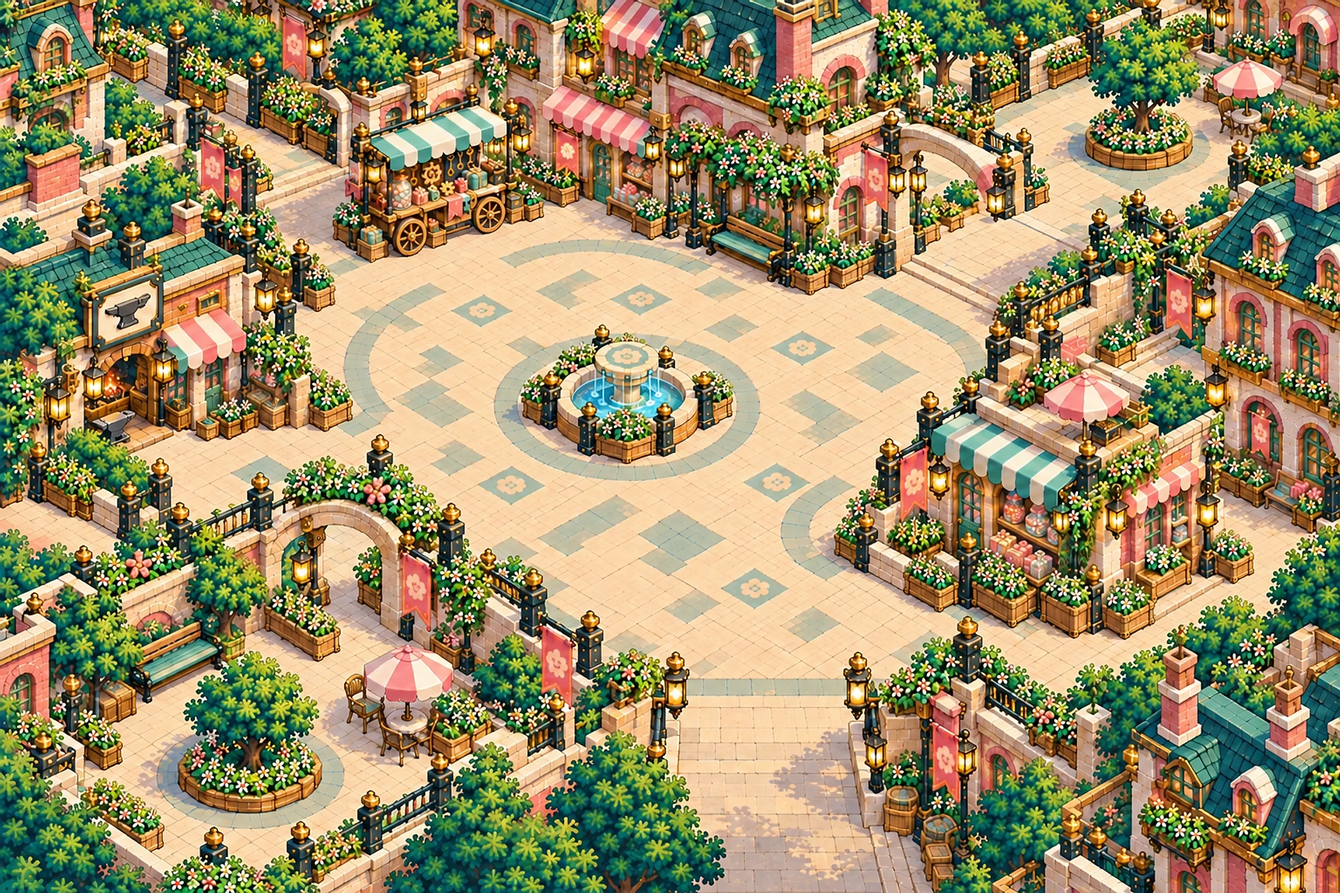
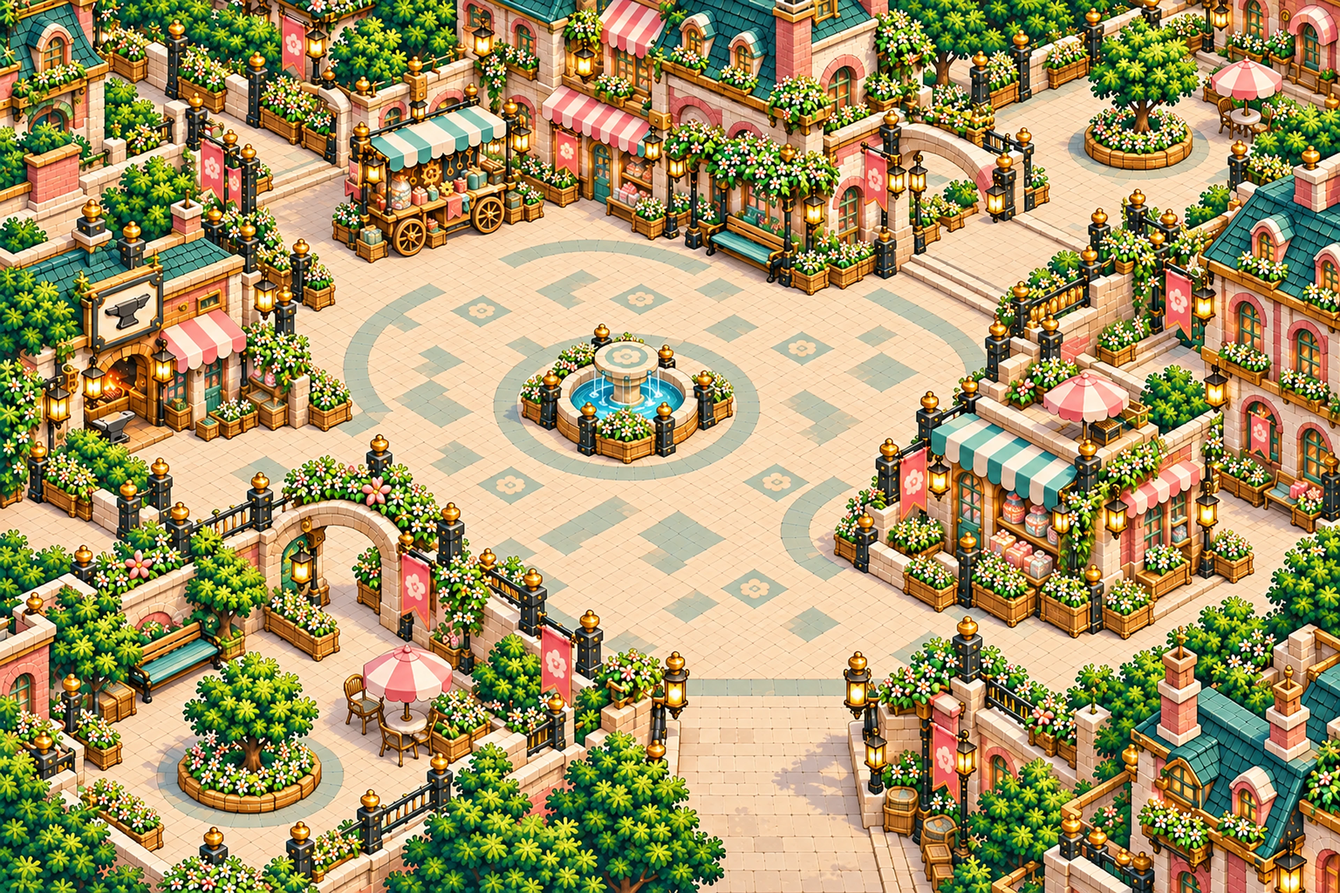
Cleaner F2 south blows, sharper village, fusion effects without flat rings, play time in settings
- F2 south 1st/2nd blows: the empty left fist drawn in and the helmet held steady
- Village background repainted at the new map quality; portals centred on exit roads
- Fusion slot greys out without charge; skill cooldown tuning renamed and shown as a cut
- Pictured skills drop the plain pulse ring; landing marks redrawn; music box notes smaller
- Residents whose north walk faced the camera turn their back; fight effects no longer linger in the village
- Total play time in settings (title, settings and hidden tab not counted); game data tables in README
- Mob damage 1.5x; prompts for world map boss and market markers

Claude-Session: https://claude.ai/code/session_013zTJ8zeUY4Et2JZtzqmSzm

diff --git a/src/main.js b/src/main.js
@@ -22,6 +22,8 @@ import { progressMark, syncPlan, readLink, writeLink } from './engine/sync.js';
 
 const $ = id => document.getElementById(id);
 const escapeHTML = text => String(text).replace(/[&<>"']/g, ch => ({ '&': '&amp;', '<': '&lt;', '>': '&gt;', '"': '&quot;', "'": '&#39;' }[ch]));
+/** Total play time as hours and minutes: "12시간 5분", "5분", or "1분 미만". */
+const formatPlayTime = seconds => { const minutes = Math.floor(seconds / 60), hours = Math.floor(minutes / 60); return hours ? `${hours}시간 ${minutes % 60}분` : minutes ? `${minutes}분` : '1분 미만'; };
 const formatTime = seconds => `${Math.floor(seconds / 60)}:${String(Math.floor(seconds % 60)).padStart(2, '0')}`;
 const defaultBindings = { up: 'KeyW', left: 'KeyA', down: 'KeyS', right: 'KeyD', dodge: 'Space', skill0: 'KeyQ', skill1: 'KeyE', skill2: 'KeyR', skill3: 'KeyF', interact: 'KeyG', codex: 'Tab', map: 'KeyM' };
 const bindingNames = { up: '위', left: '왼쪽', down: '아래', right: '오른쪽', dodge: '회피', skill0: '기술 1', skill1: '기술 2', skill2: '기술 3', skill3: '기술 4', interact: '상호작용', codex: '도감', map: '지도' };
@@ -29,12 +31,14 @@ const HOME_NAME = '웃음 마을';
 // Tile colours for cards that belong to no element.
 // Each run part has its own picture.
 /** What each run part changes, named on its reward card with the value now and with the part fitted. */
-const PART_VALUES = { basicDamage: ['렌치 피해', '+'], maxHp: ['최대 체력', ''], skillCooldownReduction: ['기술 재사용 시간', '−'], dodgeCooldownReduction: ['회피 대기 시간', '−'], statusDamage: ['화상 피해', '+'], moveSpeed: ['이동 속도', '+'], critChance: ['치명타 확률', ''], attackSpeed: ['렌치 속도', '+'], killHeal: ['처치마다 회복 HP', ''], damageReduction: ['받는 피해', '−'] };
+const PART_VALUES = { basicDamage: ['렌치 피해', '+'], maxHp: ['최대 체력', ''], skillCooldownReduction: ['스킬 대기시간', '−'], dodgeCooldownReduction: ['회피 대기 시간', '−'], statusDamage: ['화상 피해', '+'], moveSpeed: ['이동 속도', '+'], critChance: ['치명타 확률', ''], attackSpeed: ['렌치 속도', '+'], killHeal: ['처치마다 회복 HP', ''], damageReduction: ['받는 피해', '−'] };
 const PERK_ICONS = { piggyBank: 'coin', overheatEngine: 'flame', glassSpring: 'target' };
 const PART_ICONS = { basicDamage: 'wrench', maxHp: 'heart', skillCooldownReduction: 'clock', dodgeCooldownReduction: 'boot', statusDamage: 'flame', moveSpeed: 'boot', critChance: 'target', attackSpeed: 'haste', killHeal: 'heal', damageReduction: 'shield' };
 const KIND_COLORS = { heal: '#c43c36', gears: '#c79a3e', upgrade: '#5c9a9a', mod: '#8a8f9c', level: '#c79a3e', perk: '#a92f2b' };
 const TIER_NAMES = { common: '일반', rare: '희귀', special: '특별' };
 // The thirteen tuning rows read as four parts of the body they change: casing, wrench, circuits and pockets.
+/** Tuning stats that shorten a wait: their value is shown as a cut. */
+const SHORTER_WAITS = new Set(['cooldownReduction', 'dodgeCooldown']);
 const STAT_GROUPS = [['외장', ['maxHp', 'damageReduction', 'moveSpeed', 'dodgeCooldown']], ['렌치', ['attackDamage', 'attackSpeed', 'critChance', 'critDamage']], ['회로', ['cooldownReduction', 'energyGain', 'statusPower']], ['주머니', ['gearGain', 'coinGain']]];
 /** Parser errors arrive in English; players get one plain sentence instead. */
 /** Every picture the menus show at once: element parts, skill slots, status marks and the map. Loaded right after the title. */
@@ -386,8 +390,9 @@ try {
   function toll() { sfx('bell'); }
 
   function statValue(stat, rank) {
-    const value = rank * stat.perRank;
-    return stat.unit === 'percent' ? `+${Number((value * 100).toFixed(1))}%` : `+${value}`;
+    // A wait that gets shorter reads as a minus, so "−3%" never looks like a longer cooldown.
+    const value = rank * stat.perRank, sign = SHORTER_WAITS.has(stat.id) && value ? '−' : '+';
+    return stat.unit === 'percent' ? `${sign}${Number((value * 100).toFixed(1))}%` : `${sign}${value}`;
   }
   function statRow(stat) {
     // Levels past this chapter's cap show as a locked stretch of the bar until the chapter boss falls.
@@ -472,7 +477,7 @@ try {
   function settingsPanel() {
     const settings = game.s.profile.settings, map = bindings();
     const tab = (id, label) => button(label, 'settings-tab', `data-id="${id}" aria-pressed="${settingsTab === id}"`, settingsTab === id ? 'tab on' : 'tab');
-    const general = `<div class="settings-grid"><label><input type="checkbox" data-setting="sound" ${settings.sound ? 'checked' : ''}> 효과음</label><label><input type="checkbox" data-setting="music" ${settings.music ? 'checked' : ''}> 배경음악</label><label class="volume">배경음악 크기 <input type="range" min="0" max="100" step="5" data-volume="musicVolume" value="${Math.round(settings.musicVolume * 100)}" aria-label="배경음악 크기"></label><label><input type="checkbox" data-setting="damageNumbers" ${settings.damageNumbers ? 'checked' : ''}> 피해 숫자</label><label><input type="checkbox" data-setting="reducedMotion" ${settings.reducedMotion ? 'checked' : ''}> 섬광과 화면 흔들림 줄이기</label></div>${onTitle ? '' : `<div class="actions">${button('속성 도감', 'codex')}</div><div class="divider"></div><div class="actions leave">${button('타이틀 화면으로', 'to-title')}${button('원정 포기', 'abandon', game.s.run ? '' : 'disabled', 'danger')}</div>`}`;
+    const general = `<div class="settings-grid"><label><input type="checkbox" data-setting="sound" ${settings.sound ? 'checked' : ''}> 효과음</label><label><input type="checkbox" data-setting="music" ${settings.music ? 'checked' : ''}> 배경음악</label><label class="volume">배경음악 크기 <input type="range" min="0" max="100" step="5" data-volume="musicVolume" value="${Math.round(settings.musicVolume * 100)}" aria-label="배경음악 크기"></label><label><input type="checkbox" data-setting="damageNumbers" ${settings.damageNumbers ? 'checked' : ''}> 피해 숫자</label><label><input type="checkbox" data-setting="reducedMotion" ${settings.reducedMotion ? 'checked' : ''}> 섬광과 화면 흔들림 줄이기</label></div><p class="play-time">총 플레이 시간 <strong>${formatPlayTime(game.s.profile.playSeconds || 0)}</strong></p>${onTitle ? '' : `<div class="actions">${button('속성 도감', 'codex')}</div><div class="divider"></div><div class="actions leave">${button('타이틀 화면으로', 'to-title')}${button('원정 포기', 'abandon', game.s.run ? '' : 'disabled', 'danger')}</div>`}`;
     const keys = `<p>바꿀 동작을 누른 다음 새 키를 입력하세요. Esc는 취소합니다.</p><div class="binding-list">${Object.keys(defaultBindings).map(key => `<label class="binding">${bindingNames[key]}${button(bindingTarget === key ? '입력…' : keyName(map[key]), 'rebind', `data-key="${key}"`)}</label>`).join('')}</div><p class="notice">마우스: 왼쪽 클릭 렌치, 오른쪽 클릭 융합<br>패드: 왼쪽 스틱 이동, 오른쪽 스틱 조준, RB 렌치, B 회피, X/Y/LB/LT 기술, RT 융합, A 말 걸기, View 지도, Menu 멈춤</p><div class="actions">${button('키 기본값으로', 'reset-bindings')}</div>`;
     const body = settingsTab === 'keys' ? keys : settingsTab === 'devices' ? transferBlock() : general;
     return panel(`<div class="panel-header"><div><h2>${onTitle ? '환경설정' : '잠시 멈춤'}</h2></div>${button('닫기', 'resume', '', 'primary')}</div><div class="codex-tabs">${tab('general', '설정')}${tab('keys', '조작 키')}${tab('devices', '다른 기기와 연동')}</div>${body}${storageError ? `<p class="error">${escapeHTML(storageError)}</p>` : ''}`, 'wide settings');
@@ -630,7 +635,8 @@ try {
       put(element.querySelector('.cool'), 'height', `${Math.min(1, remaining / total) * 100}%`);
       put(element.querySelector('.left'), 'text', remaining > 0 ? remaining.toFixed(1) : '');
       element.classList.toggle('ready', !!slot.fusion && !!skill && !remaining && p.energy >= skill.energyCost);
-      element.classList.toggle('short', !slot.fusion && !!skill?.energyCost && p.energy < skill.energyCost);
+      // A skill or the fusion without enough charge greys out the same way.
+      element.classList.toggle('short', !!skill?.energyCost && p.energy < skill.energyCost);
     });
     const resetting = game.s.practice?.resetCooldowns;
     put($('practice-reset'), 'hidden', game.s.mode !== 'practice');
@@ -638,7 +644,7 @@ try {
     $('practice-reset').classList.toggle('on', !!resetting);
     if (isTouch) touch.update(slots.map(slot => {
       const { skill } = slot, { remaining, total } = slotCooldown(slot);
-      return { art: slot.icon || skill?.id, cost: skill?.energyCost || 0, share: Math.min(1, remaining / total), left: remaining > 0 ? Math.ceil(remaining) : '', ready: !!slot.fusion && !!skill && !remaining && p.energy >= skill.energyCost, short: !slot.fusion && !!skill?.energyCost && p.energy < skill.energyCost };
+      return { art: slot.icon || skill?.id, cost: skill?.energyCost || 0, share: Math.min(1, remaining / total), left: remaining > 0 ? Math.ceil(remaining) : '', ready: !!slot.fusion && !!skill && !remaining && p.energy >= skill.energyCost, short: !!skill?.energyCost && p.energy < skill.energyCost };
     }));
     const hint = lessonHint();
     put($('hint'), 'text', hint);
@@ -907,6 +913,8 @@ try {
   function frame(now) {
     const delta = Math.min(0.1, (now - lastTime) / 1000); lastTime = now; accumulator += delta * (now < slowUntil ? SLOW_RATE : 1);
     bringPlaceForward();
+    // Play time leaves out the title, the settings / pause menu and a hidden tab.
+    if (!onTitle && screen !== 'pause' && !document.hidden) game.addPlayTime(delta);
     // Back in the village: the moment progress is uploaded for the other devices.
     if (game.s.mode !== syncMode) { if (game.s.mode === 'hub' && syncMode && syncMode !== 'hub') syncUpload(); syncMode = game.s.mode; }
     if (game.s.mode === 'opening' && !screen) playOpening(false);

diff --git a/src/render/canvas.js b/src/render/canvas.js
@@ -8,6 +8,8 @@ import { cameraFor, VIEW_UNITS, CAMERA_ZOOM, PIXELS_PER_UNIT } from '../engine/m
 import { ghostFor } from './depth-mask.js';
 import { Lighting } from './lighting.js';
 import { FX, NOTE_ART } from './fx-sprites.js';
+/** The music box's notes are drawn a little under their art size so a volley reads as shots, not as clutter. */
+const NOTE_SCALE = 0.8;
 export const STATUS_ICONS = Object.fromEntries(['burn', 'chill', 'frozen', 'shock', 'windPressure'].map(id => [id, `/art/ui/status-icons/${id}.png`]));
 /** Brass's march drums in the drum break (PixelLab object); main.js loads it with the place art. */
 export const BRASS_DRUM_ART = 'art/bosses/brass/drum.png';
@@ -229,6 +231,18 @@ export class CanvasRenderer {
     const reach = Math.min((halfW - 1.5) / (Math.abs(dx) || 1e-6), (halfH - 2) / (Math.abs(dy) || 1e-6));
     c.save(); c.translate((centerX + dx * reach) * 20, (centerY + dy * reach) * 20); c.rotate(Math.atan2(dy, dx));
     c.fillStyle = fill; c.strokeStyle = '#3b2f1c'; c.lineWidth = 2; c.beginPath(); c.moveTo(13, 0); c.lineTo(-9, -11); c.lineTo(-4, 0); c.lineTo(-9, 11); c.closePath(); c.stroke(); c.fill(); c.restore();
+  }
+  /**
+   * Where a placed skill will land: a soft disc on the floor in the skill's colour, a dashed rim, and an inner ring that
+   * closes in on the rim as the moment of impact comes, so the timing reads as well as the place.
+   */
+  drawLandingMark(fx, x, y, fraction) {
+    const c = this.ctx, r = fx.value * 20, flat = 0.55;
+    c.save(); c.translate(x, y); c.scale(1, flat);
+    c.globalAlpha = 0.16 + 0.14 * fraction; c.fillStyle = fx.color; c.beginPath(); c.arc(0, 0, r, 0, TAU); c.fill();
+    c.globalAlpha = 0.85; c.strokeStyle = fx.color; c.lineWidth = 2; c.setLineDash([6, 5]); c.lineDashOffset = -this.visualTime * 18; c.beginPath(); c.arc(0, 0, r, 0, TAU); c.stroke();
+    c.setLineDash([]); c.globalAlpha = 0.5 + 0.5 * fraction; c.strokeStyle = '#fff4d6'; c.lineWidth = 2; c.beginPath(); c.arc(0, 0, Math.max(2, r * fraction), 0, TAU); c.stroke();
+    c.restore();
   }
   /** Keeps a drawn body behind whatever scenery stands in front of its feet. */
   coverBody(mask, x, y, halfWidth = 1.3, tall = 2.9) { return mask?.cover(this.ctx, x, y, halfWidth, tall) || 0; }
@@ -600,7 +614,8 @@ export class CanvasRenderer {
       }
       if(cast.shape==='clamp'){
         const corners=clampCorners(cast,cast.angle,cast),closing=Math.max(0,Math.min(1,(cast.age-cast.delay+cast.closeMs/1000)/(cast.closeMs/1000))),gap=cast.jawOpenDistance+(cast.jawClosedDistance-cast.jawOpenDistance)*closing;
-        for(let i=0;i<4;i++){const a=corners[i],b=corners[(i+1)%4];this.line(a.x*20,a.y*20,b.x*20,b.y*20,'#94bdc8',1);}
+        // Only the plain fallback outlines the jaws' box; with the picture the jaws themselves show where they close.
+        if(!spriteFx)for(let i=0;i<4;i++){const a=corners[i],b=corners[(i+1)%4];this.line(a.x*20,a.y*20,b.x*20,b.y*20,'#94bdc8',1);}
         if(!spriteFx)for(const side of [-1,1]){const points=[-1,1].map(u=>({x:cast.x+Math.cos(cast.angle)*u*cast.halfLength-Math.sin(cast.angle)*side*gap,y:cast.y+Math.sin(cast.angle)*u*cast.halfLength+Math.cos(cast.angle)*side*gap}));this.line(points[0].x*20,points[0].y*20,points[1].x*20,points[1].y*20,'#7fc9df',5);}
       }
       if(cast.shape === 'orb' && !spriteFx){ const x=cast.x*20,y=cast.y*20-16; this.circle(x,y,9,'#a4c7b1');this.circle(x,y,5,'#dfca6a');this.line(x-5,y,x+4,y+3,'#fff1a2',2); }
@@ -683,8 +698,9 @@ export class CanvasRenderer {
       // An enemy's shot is a note with a gold tail; one batted back stays a plain pellet.
       if (note && !bullet.friendly) {
         const back = bullet.angle + Math.PI, bob = Math.sin(this.visualTime * 14 + bullet.x) * 1.5;
-        for (let i = 1; i <= 4; i++) { c.globalAlpha = 0.45 - i * 0.09; this.circle(bx + Math.cos(back) * i * 4, by - 6 + Math.sin(back) * i * 4, 3 - i * 0.4, '#ffd257'); }
-        c.globalAlpha = 1; c.drawImage(note, Math.round(bx - 8), Math.round(by - 20 + bob), 16, 19);
+        const k = NOTE_SCALE, w = Math.round(16 * k), h = Math.round(19 * k);
+        for (let i = 1; i <= 4; i++) { c.globalAlpha = 0.45 - i * 0.09; this.circle(bx + Math.cos(back) * i * 4 * k, by - 6 * k + Math.sin(back) * i * 4 * k, (3 - i * 0.4) * k, '#ffd257'); }
+        c.globalAlpha = 1; c.drawImage(note, Math.round(bx - w / 2), Math.round(by - 20 * k + bob), w, h);
         continue;
       }
       this.circle(bx, by, 4, bullet.friendly ? '#86c0ac' : '#b96b78'); this.circle(bx, by, 2, '#f7e6b0');
@@ -697,8 +713,11 @@ export class CanvasRenderer {
     for (const fx of s.effects) {
       if (fx.type === 'number' && !s.profile.settings.damageNumbers) continue;
       if (spriteFx && ['crosscut', 'iceClamp'].includes(fx.type)) continue;
+      // A skill with its own animated picture (every fusion, and the element skills that have one) needs no plain ring on each pulse.
+      if (spriteFx && fx.type === 'ring' && fx.skill && this.castEffects.effects?.[fx.skill]) continue;
       if (s.profile.settings.reducedMotion && ['dodge', 'hurt', 'scrap', 'spark', 'impact', 'dust'].includes(fx.type)) continue;
       const fraction = Math.min(1, (s.time - fx.created) / fx.duration), x = fx.x * 20, y = fx.y * 20;
+      if (fx.type === 'friendlyTell') { this.drawLandingMark(fx, x, y, fraction); continue; }
       // Blows and skills with a picture of their own play it; the plain shapes below are the fallback.
       if (fx.look && this.drawLook(fx, x, y, fraction)) continue;
       c.save(); c.globalAlpha = Math.max(0, 1 - fraction); c.strokeStyle = fx.color; c.lineWidth = fx.type === 'ring' ? 3 : 2;

diff --git a/src/engine/game.js b/src/engine/game.js
@@ -86,6 +86,8 @@ export class Game {
     return this.s.rng / 4294967296;
   }
   save() { this.onSave(this.s); }
+  /** Time spent in the game itself (not the title screen or a hidden tab), kept for the whole account. */
+  addPlayTime(seconds) { if (seconds > 0) this.s.profile.playSeconds = (this.s.profile.playSeconds || 0) + seconds; }
   notify(text) { this.s.notices.push({ id: this.id('notice'), text, until: this.s.time + 3 }); }
   resetPlayer() {
     const stats = this.stats, spawn = this.config.arena.spawn;
@@ -534,7 +536,7 @@ export class Game {
     cast.x = clamp(cast.x, bounds.left, bounds.right); cast.y = clamp(cast.y, bounds.top, bounds.bottom);
     if (cast.shape === 'self' || cast.shape === 'moving' || cast.shape === 'cone' || cast.shape === 'dash' || cast.shape === 'crosscut') { cast.x = this.p.x; cast.y = this.p.y; }
     if (cast.shape === 'moving' && cast.startDistance) this.move(cast, Math.cos(angle)*cast.startDistance, Math.sin(angle)*cast.startDistance, .2);
-    if (['target', 'orb'].includes(cast.shape) && behavior.delay > 0) this.effect('friendlyTell', cast.x, cast.y, cast.color, behavior.delay, cast.radius);
+    if (['target', 'orb'].includes(cast.shape) && behavior.delay > 0) this.effect('friendlyTell', cast.x, cast.y, cast.color, behavior.delay, cast.radius, { skill: cast.skillId });
     if (cast.shape === 'projectile') {
       for (let i = 0; i < skill.hits; i++) cast.projectiles.push({ x: this.p.x, y: this.p.y, angle: angle + (i - (skill.hits - 1) / 2) * behavior.spread, travelled: 0, done: false });
     }
@@ -619,7 +621,7 @@ export class Game {
           if (cast.finalKnockback && cast.pulse === cast.hits - 1) for (const enemy of this.s.enemies) if (enemy.hp > 0 && !enemy.boss && distance(cast, enemy) <= cast.radius + enemy.radius) { const a = Math.atan2(enemy.y - cast.y, enemy.x - cast.x); this.move(enemy, Math.cos(a) * cast.finalKnockback, Math.sin(a) * cast.finalKnockback); }
           for (const enemy of this.s.enemies) if (enemy.hp > 0 && (cast.shape === 'cone' ? inCone(cast, enemy, cast.angle, cast.range, cast.arc) : distance(cast, enemy) <= cast.radius + enemy.radius)) { this.castHit(cast, enemy); if(cast.shape==='orb' && cast.knockback && !enemy.boss){const a=Math.atan2(enemy.y-cast.y,enemy.x-cast.x);this.move(enemy,Math.cos(a)*cast.knockback,Math.sin(a)*cast.knockback);} }
           const look = cast.skillId === 'heatSwing' ? 'heatSwing' : cast.shape === 'charge' ? 'zapBig' : cast.finalKnockback && cast.pulse === cast.hits - 1 ? 'quake' : undefined;
-          this.effect(cast.shape === 'cone' ? 'swing' : 'ring', cast.x, cast.y, cast.color, look ? 0.7 : Math.max(0.18, cast.interval), cast.shape === 'cone' ? cast.range : cast.radius, { angle: cast.angle, phase: 1, arc: cast.arc, look });
+          this.effect(cast.shape === 'cone' ? 'swing' : 'ring', cast.x, cast.y, cast.color, look ? 0.7 : Math.max(0.18, cast.interval), cast.shape === 'cone' ? cast.range : cast.radius, { angle: cast.angle, phase: 1, arc: cast.arc, look, skill: cast.skillId });
         }
         cast.pulse++; cast.next += cast.interval;
       }
@@ -1040,6 +1042,9 @@ export class Game {
   }
   /** Village time: only feet move, and stepping into the exit leaves for the next place. */
   walk(dt, input) {
+    // Nothing fights in a village, and its clock stands still, so a spark or shot carried in from the last fight would hang
+    // in the air for good: a place to walk around starts every step clean.
+    if (this.s.effects.length || this.s.casts.length || this.s.projectiles.length) { this.s.effects = []; this.s.casts = []; this.s.projectiles = []; }
     this.stepFeet(dt, input, this.village.bodyRadius);
     const { p } = this;
     this.tutorial.tick();

diff --git a/src/animation/npc-director.js b/src/animation/npc-director.js
@@ -16,6 +16,13 @@ const PATIENCE_SECONDS = 0.8, PASSING_SECONDS = 2.5;
 const SETTLE_SECONDS = 0.4;
 // Each resident keeps to their own side of the street, so a crowd does not stack on one line.
 export const LANE_UNITS = 0.35;
+/** Residents whose generated 'north' walk shows their face: walking away from the camera they use the back three-quarter view instead. */
+export const FRONT_FACING_NORTH = new Set(['C2', 'C3', 'R3', 'R4', 'R5', 'R6', 'R7', 'R8', 'R18']);
+export function walkDirection(character, dx, dy) {
+  const direction = nearestDirection(Math.atan2(dy, dx));
+  if (direction !== 'north' || !FRONT_FACING_NORTH.has(character)) return direction;
+  return dx >= 0 ? 'north-east' : 'north-west';
+}
 
 /** Where `other` is from a walker's point of view: along their heading, and to their right. */
 const relative = ({ x, y, dx, dy }, other) => ({ ahead: (other.x - x) * dx + (other.y - y) * dy, right: (other.y - y) * dx - (other.x - x) * dy });
@@ -123,7 +130,7 @@ export class NpcDirector {
     // Residents always draw from their walk clips: the idle stills are a different drawing of a different size.
     const action = `${character}-walk`;
     if (reducedMotion) return { x, y, pose: { action, direction: 'south', frame: 0 } };
-    const direction = nearestDirection(Math.atan2(dy, dx));
+    const direction = walkDirection(character, dx, dy);
     if (stopped) return { x, y, pose: { action, direction, frame: resident.frame } };
     if (!resident.waiting) { const walk = this.library.clip(action, direction); resident.frame = frameAtProgress(walk, (this.walked * 1000 % walk.durationMs) / walk.durationMs); }
     return { x, y, pose: { action, direction, frame: resident.frame } };

diff --git a/test/npc.test.js b/test/npc.test.js
@@ -5,7 +5,7 @@ import assert from 'node:assert/strict';
 import { Game } from '../src/engine/game.js';
 import { CanvasRenderer } from '../src/render/canvas.js';
 import { placeOf } from '../src/engine/map-geometry.js';
-import { NpcDirector, BELL_EVERY_SECONDS, BELL_HOLD_SECONDS, FIRST_BELL_SECONDS, LANE_UNITS } from '../src/animation/npc-director.js';
+import { NpcDirector, BELL_EVERY_SECONDS, BELL_HOLD_SECONDS, FIRST_BELL_SECONDS, LANE_UNITS, FRONT_FACING_NORTH, walkDirection } from '../src/animation/npc-director.js';
 import { SpriteLibrary } from '../src/animation/sprite-library.js';
 
 const json = async path => JSON.parse(await readFile(new URL(path, import.meta.url), 'utf8'));
@@ -233,4 +233,13 @@ test('a newcomer hears the bell early, then the town keeps its long gap', () => 
   play(BELL_HOLD_SECONDS + 0.2, null); assert.equal(d.stopped, false);
   play(BELL_EVERY_SECONDS - 1, null); assert.equal(d.stopped, false);
   play(1.2, null); assert.equal(d.stopped, true);
+});
+
+test('residents whose north walk shows the face turn their back when walking away from the camera', () => {
+  for (const character of FRONT_FACING_NORTH) {
+    assert.equal(walkDirection(character, 0.01, -1), 'north-east');
+    assert.equal(walkDirection(character, -0.01, -1), 'north-west');
+  }
+  assert.equal(walkDirection('R1', 0, -1), 'north');
+  assert.equal(walkDirection('R3', 1, 0), 'east');
 });

diff --git a/src/engine/progression.js b/src/engine/progression.js
@@ -1,5 +1,5 @@
 export function createProfile(data) {
-  return { freeGears: 0, loadout: [], stats: Object.fromEntries(data.slice.permanentStats.map(stat => [stat.id, 0])), registered: false, introRewardClaimed: false, firstReturnClaimed: false, combatClears: 0, runs: 0, wins: 0, chapter: 1, bossRecords: [], blueprints: [], discoveredFusions: [], rewards: [], history: [], settings: { reducedMotion: false, damageNumbers: true, sound: true, music: true, musicVolume: 0.6, bindings: {} } };
+  return { freeGears: 0, loadout: [], stats: Object.fromEntries(data.slice.permanentStats.map(stat => [stat.id, 0])), registered: false, introRewardClaimed: false, firstReturnClaimed: false, combatClears: 0, playSeconds: 0, runs: 0, wins: 0, chapter: 1, bossRecords: [], blueprints: [], discoveredFusions: [], rewards: [], history: [], settings: { reducedMotion: false, damageNumbers: true, sound: true, music: true, musicVolume: 0.6, bindings: {} } };
 }
 
 /** Price of the next level of a stat that is currently at `rank`. */

diff --git a/src/engine/storage.js b/src/engine/storage.js
@@ -49,6 +49,8 @@ export function decodeSave(raw, data) {
   if (!s.profile.settings || !s.profile.settings.bindings || !['sound', 'damageNumbers', 'reducedMotion', 'music'].every(key => typeof s.profile.settings[key] === 'boolean') || !(s.profile.settings.musicVolume >= 0 && s.profile.settings.musicVolume <= 1)) fail('저장된 설정이 올바르지 않습니다.');
   // Saves from before chapters start in chapter 1.
   if (!Number.isInteger(s.profile.chapter) || s.profile.chapter < 1) s.profile.chapter = 1;
+  // Older saves start their play clock at zero; a broken value is reset rather than refusing the save.
+  if (!Number.isFinite(s.profile.playSeconds) || s.profile.playSeconds < 0) s.profile.playSeconds = 0;
   s.profile.loadout ??= [];
   s.profile.ownedElements ??= [...s.profile.loadout];
   if (!Array.isArray(s.profile.ownedElements) || s.profile.ownedElements.some(id => !data.slice.elements.includes(id))) fail('저장된 속성 부품이 올바르지 않습니다.');

diff --git a/test/transfer.test.js b/test/transfer.test.js
@@ -93,3 +93,12 @@ test('the sync link is kept apart from the save and survives a broken entry', ()
   m.set(SYNC_STORE_KEY, '{broken'); assert.equal(readLink(storage), null);
   writeLink(storage, null); assert.equal(m.has(SYNC_STORE_KEY), false);
 });
+
+test('total play time adds up, survives a save, and starts at zero for an older save', () => {
+  const g = new Game(data);
+  g.addPlayTime(90); g.addPlayTime(-5); g.addPlayTime(30.5);
+  assert.equal(g.s.profile.playSeconds, 120.5);
+  assert.equal(decodeSave(encodeSave(g.s), data).profile.playSeconds, 120.5);
+  const old = JSON.parse(encodeSave(g.s)); delete old.state.profile.playSeconds;
+  assert.equal(decodeSave(JSON.stringify(old), data).profile.playSeconds, 0);
+});

diff --git a/test/village.test.js b/test/village.test.js
@@ -424,3 +424,10 @@ test('an enemy pressed against a cart works its way around it', () => {
   for (let i = 0; i < 1200 && Math.hypot(guard.x - g.p.x, guard.y - g.p.y) > 1.5; i++) { g.p.hp = g.p.maxHp; g.update(1 / 60, {}); }
   assert.ok(Math.hypot(guard.x - g.p.x, guard.y - g.p.y) <= 1.5, `stopped at ${guard.x},${guard.y}`);
 });
+
+test('sparks and shots left from a fight do not hang in the village', () => {
+  const g = atHub();
+  g.effect('ring', g.p.x, g.p.y, '#e8742f', 0.5, 3); g.s.casts.push({ id: 'old', shape: 'moving', x: 1, y: 1 }); g.s.projectiles.push({ x: 1, y: 1 });
+  g.update(1 / 60, {});
+  assert.deepEqual([g.s.effects.length, g.s.casts.length, g.s.projectiles.length], [0, 0, 0]);
+});

diff --git a/src/layout.css b/src/layout.css
@@ -307,3 +307,4 @@ body.cramped .actions.reroll { margin-top: 6px; }
 .panel.result .result-build { display: flex; align-items: center; gap: 6px; font-weight: 700; }
 .panel.result .inline-element { width: 28px; height: 28px; image-rendering: pixelated; }
 .panel.result .result-next { margin-top: 10px; padding: 8px 10px; background: #ece0c0; font-weight: 700; }
+.settings .play-time { margin: 10px 0 0; font-weight: 700; } .settings .play-time strong { margin-left: 6px; }

diff --git a/README.md b/README.md
@@ -82,12 +82,123 @@ test/                                 자동 테스트
 - 나머지 4속성과 22융합, 무음공장과 중앙시계탑, 엔딩
 - 정식 음악과 효과음, 패드 실기 검사, 사람 플레이 기준 밸런스
 
+## 게임 데이터
+
+`src/data/*.json` 기준 현재 값입니다. 데이터를 바꾸면 이 표도 함께 고칩니다.
+
+### 내 캐릭터(F2) 기본 능력치
+
+| 항목 | 값 |
+|---|---|
+| 최대 체력 | 100 |
+| 이동 속도 | 초당 3.5칸 |
+| 치명타 확률 | 10% |
+| 축전 최대치 | 100 (렌치 한 타마다 +8) |
+| 렌치 3연타 피해 | 16 / 18 / 28 |
+| 렌치 사거리 | 2.15 / 2.15 / 2.55칸 |
+| 회피 | 3칸, 무적 0.16초, 재사용 0.75초 |
+| 맞은 뒤 무적 | 0.55초 |
+
+### 조율판(자유 톱니로 올리는 영구 능력치)
+
+| 능력치 | 단계당 | 최대 단계 | 첫 단계 비용 | 단계마다 비용 증가 |
+|---|---|---|---|---|
+| 체력 | +5 | 30 | 10 | +5 |
+| 공격력 | 3% | 30 | 10 | +5 |
+| 공격속도 | 2% | 30 | 10 | +5 |
+| 이동속도 | 2% | 30 | 10 | +5 |
+| 방어력 | 2% | 30 | 10 | +5 |
+| 기술 대기시간 | 2% | 30 | 10 | +5 |
+| 치명타 확률 | 1% | 30 | 10 | +5 |
+| 치명타 피해 | 3% | 30 | 10 | +5 |
+| 회피 대기시간 | 2% | 30 | 10 | +5 |
+| 축전 획득량 | 2% | 30 | 10 | +5 |
+| 상태이상 위력 | 3% | 30 | 10 | +5 |
+| 자유 톱니 획득량 | 2% | 30 | 10 | +5 |
+| 동전 획득량 | 2% | 30 | 10 | +5 |
+
+### 상점
+
+볼트의 부품 상점(야시장 쉼터, 동전):
+
+| 물건 | 가격 | 내용 |
+|---|---|---|
+| 응급 수리 | 동전 45 | 체력 25 회복, 상점당 한 번 |
+| 정밀 조율 | 동전 70 | 최고 단계가 아닌 첫 속성의 기술 단계 +1 |
+| 자유 톱니 | 동전 60 | 자유 톱니 20개, 귀환해도 남음, 상점당 한 번 |
+
+모루의 부품 선반(마을, 자유 톱니): 속성 장치 가격 무료 → 50 → 50 → 50 (첫 속성은 등록 후 무료).
+
+### 원정 보상
+
+| 방 | 자유 톱니 | 동전 |
+|---|---|---|
+| 일반 방 | 15 | 22 |
+| 로코 방 | 45 | 38 |
+| 브라스 방 | 90 | 60 |
+
+몹을 잡을 때마다 방 총액을 몹 수로 나눠 받고, 클리어하면 남은 만큼 받습니다. 첫 귀환 보너스 자유 톱니 15.
+
+### 몹 목록
+
+방에 나오는 몹의 실제 체력은 기본 체력 × 방 배율, 실제 공격력은 기본 공격력 × 방 배율 × 0.525입니다.
+
+| 몹 | 기본 체력 | 기본 공격력 | 이동 속도 | 공격 |
+|---|---|---|---|---|
+| 태엽 쥐 | 80 | 9 | 3.2 | 다가와 폭발 |
+| 방패 호두까기 | 600 | 12 | 1.5 | 근접 휘두르기 |
+| 목각 경비 | 260 | 8 | 2.1 | 근접 휘두르기 |
+| 스프링 토끼 | 226 | 10 | 2.9 | 돌진 |
+| 나팔 사수 | 300 | 6 | 1.3 | 탄 발사 |
+| 정예 목각 경비 | 400 | 12 | 2 | 충격파 두 번 |
+| 오르골 포탑 | 320 | 5 | 0 | 음표 탄막(제자리) |
+| 깜짝 상자 | 220 | 12 | 3.4 | 숨었다 튀어나옴 |
+| 팽이 병정 | 280 | 9 | 2 | 회전 돌진 |
+| 북치기 인형 | 240 | 0 | 1.6 | 북소리로 주변 몹 강화 |
+| 태엽 창병 | 300 | 11 | 1.9 | 창 찌르기 |
+
+| 보스 | 체력 | 공격력 |
+|---|---|---|
+| 회수관 로코 | 900 | 10 |
+| 행진대장 브라스 | 1800 | 12 |
+
+### 방마다 나오는 몹
+
+| # | 방 | 배율 | 웨이브별 몹 |
+|---|---|---|---|
+| 1 | 첫 걸음 광장 | 0.8 | 1) 목각 경비 ×5<br>2) 목각 경비 ×2, 스프링 토끼 ×2, 태엽 쥐 ×2<br>3) 목각 경비 ×3, 스프링 토끼, 태엽 쥐 |
+| 2 | 사탕 수레마당 | 0.85 | 1) 목각 경비 ×4, 나팔 사수<br>2) 깜짝 상자, 태엽 쥐 ×5<br>3) 목각 경비 ×4, 나팔 사수, 스프링 토끼 |
+| 3 | 장난감 수선길 | 0.9 | 1) 목각 경비 ×4, 오르골 포탑, 스프링 토끼<br>2) 방패 호두까기 ×2, 오르골 포탑, 태엽 쥐 ×3<br>3) 목각 경비 ×4, 나팔 사수 |
+| 4 | 리본 교차골목 | 0.95 | 1) 나팔 사수 ×4, 북치기 인형, 스프링 토끼<br>2) 태엽 창병 ×2, 오르골 포탑, 태엽 쥐 ×3, 목각 경비 ×2<br>3) 방패 호두까기 ×2, 오르골 포탑, 나팔 사수, 스프링 토끼 |
+| 5 | 분실물 회수소 | - | 보스: 회수관 로코 |
+| 6 | 중간 마을 쉼터 | - | 상점(볼트) |
+| 7 | 태엽 적재마당 | 1 | 1) 팽이 병정, 목각 경비 ×4, 나팔 사수, 정예 목각 경비<br>2) 깜짝 상자, 오르골 포탑, 태엽 쥐 ×4, 스프링 토끼, 목각 경비, 정예 목각 경비<br>3) 방패 호두까기 ×2, 오르골 포탑, 나팔 사수 ×2, 정예 목각 경비 |
+| 8 | 분수 우회광장 | 1 | 1) 북치기 인형, 오르골 포탑, 스프링 토끼 ×3, 나팔 사수, 정예 목각 경비<br>2) 방패 호두까기 ×2, 태엽 창병, 목각 경비 ×3, 오르골 포탑, 태엽 쥐, 정예 목각 경비<br>3) 오르골 포탑, 스프링 토끼 ×3, 나팔 사수 ×2, 정예 목각 경비 |
+| 9 | 깃발 검문광장 | 1 | 1) 팽이 병정, 목각 경비 ×5, 나팔 사수 ×2, 정예 목각 경비<br>2) 방패 호두까기 ×4, 깜짝 상자, 오르골 포탑, 태엽 쥐 ×2, 정예 목각 경비<br>3) 태엽 창병, 오르골 포탑, 나팔 사수, 스프링 토끼 ×2, 정예 목각 경비 |
+| 10 | 사탕색 골목 | 1.15 | 1) 깜짝 상자 ×2, 정예 목각 경비, 오르골 포탑, 태엽 쥐 ×2, 목각 경비 ×2<br>2) 방패 호두까기 ×2, 정예 목각 경비, 목각 경비 ×3, 나팔 사수 ×2<br>3) 목각 경비 ×2, 정예 목각 경비, 오르골 포탑 ×2, 나팔 사수, 스프링 토끼 ×2 |
+| 11 | 행진 적재뜰 | 1.2 | 1) 팽이 병정, 태엽 창병, 나팔 사수 ×2, 정예 목각 경비 ×3, 목각 경비<br>2) 방패 호두까기 ×3, 목각 경비, 깜짝 상자, 정예 목각 경비, 오르골 포탑, 태엽 쥐<br>3) 북치기 인형, 정예 목각 경비 ×3, 나팔 사수, 오르골 포탑 |
+| 12 | 멈추지 않는 행진 | - | 보스: 행진대장 브라스 |
+
 ## 업데이트
 
 새 항목은 위에 추가합니다.
 
 ### 2026-11-04
 
+- 환경설정(설정 탭)에 계정의 총 플레이 시간 표시("12시간 5분"). 타이틀 화면, 환경설정(잠시 멈춤) 창, 숨긴 탭에 있는 시간은 빼고 세며, 저장·기기 연동에 함께 들어갑니다. 예전 저장은 0부터.
+- 버그 수정: 전투가 끝나고 마을로 돌아오면 몹이나 내 공격 이펙트가 마을에 남아 보이던 문제. 마을은 시간이 흐르지 않아 남은 이펙트가 사라지지 않았습니다. 이제 마을과 쉼터를 걸을 때는 이펙트·기술·탄이 남지 않습니다.
+- 융합 스킬도 축전이 모자라면 다른 기술처럼 칸이 회색으로 바뀌고 필요 축전 숫자가 빨갛게 표시됩니다(PC·휴대폰).
+- 조율판 '기술 대기시간' → '스킬 대기시간 감소'(설명: 속성 기술과 융합 스킬의 대기시간이 줄어든다), 값도 "−3%"처럼 줄어드는 쪽으로 표시. '회피 대기시간'도 '회피 대기시간 감소'로 같이 정리. 출력 부품 카드 표기도 '스킬 대기시간'.
+- 융합·속성 기술 이펙트: 자기 그림(애니메이션)이 있는 기술은 타격마다 그리던 단색 원을 없앰(화염 회오리, 증기 파쇄, 전호 용광로, 폭뢰 부유구 등). 떨어질 자리 표시는 단색 원 대신 바닥에 깔린 반투명 원 + 움직이는 점선 테두리 + 터질 때까지 커지는 안쪽 고리. 자성 빙쇄의 네모 테두리 선도 그림이 있을 땐 숨김.
+- 월드맵 보스·야시장 표시 아이콘 생성 프롬프트(`art/world-map/icons/*.prompt.txt`): 지도 그림과 같은 화풍의 톱니 메달(보스)과 줄무늬 노점 수레(야시장).
+- README에 게임 데이터 표 추가(업데이트 위): 캐릭터 기본 능력치, 조율판, 상점, 원정 보상, 몹·보스 목록, 방마다 웨이브별 몹.
+- F2 남쪽 1·2타: 빠져 있던 왼팔 아래팔과 주먹을 대기 자세에서 가져와 그려 넣고(1타 6장, 2타 8장), 얼굴이 옆으로 밀려 보이던 프레임은 대기 자세의 헬멧으로 고정(머리 위치는 프레임마다 그대로, 얼굴 앞을 지나는 렌치는 앞에 보임). 공중에 떠 있던 점도 지움.
+- 주민 9명(C2, C3, R3~R8, R18)은 '북쪽 걷기' 그림이 앞모습이라 북쪽으로 걸을 때 얼굴이 보이던 문제: 이 주민들은 북쪽으로 걸을 때 북동·북서 뒷모습을 씁니다.
+- 포탈을 출구 길 가운데로: 첫 걸음 광장(더 오른쪽 위 길 끝), 사탕 수레마당, 장난감 수선길, 리본 교차골목, 행진 적재뜰(문 앞).
+- 오르골 음표 탄을 80% 크기로.
+- 웃음마을 배경을 새 그림(`background-wide-v4.png`)으로 교체. 구조가 같아 걷는 영역·주민 동선·출구는 그대로, 가림 마스크만 새로 만듦.
+- 웃음마을 화질 개선 프롬프트(`village-court/background-wide-v4.prompt.txt`): 구도·건물·길·출구 위치는 지금 그림 그대로, 새 거리 맵 수준으로 선명하고 세밀하게.
+- 몹 공격력 1.5배: 웨이브 몹이 원래 공격력에서 받는 비율 0.35 → 0.525(몸통 박치기, 탄환, 장판 모두 같은 값을 씀). 보스는 그대로.
 - 일반 전투 방 9곳과 야시장 쉼터를 새 축소판 그림으로 교체(`background-compact.webp`, 마스크 `mask-compact.png`, 원본 PNG는 내 컴퓨터에만). 걷는 바닥은 그림의 포장도로를 따라 다시 그렸고(방마다 약 140~380칸), 9곳 모두 왼쪽 길로 들어와 오른쪽 길 끝의 포탈로 나갑니다. 몹 기준 위치 5곳은 시작점·포탈에서 떨어진 바닥에 고르게 배치. 첫 걸음 광장 가운데 화단은 막힌 물체. 야시장은 볼트가 수레 앞(왼쪽 위)에 서고, 주민은 가운데 노점을 한 바퀴 돌며, 오른쪽 길로 나갑니다(`다음 길로 →`). 바뀐 출구 방향에 맞춰 테스트 4개 수정, 예전 그림(`background-large.webp`, `mask-large.png`, 야시장 v2) 삭제.
 - 몹 처치 보상 1.5배: 일반 방 자유 톱니 10 → 15·동전 15 → 22, 로코 방 30 → 45·25 → 38, 브라스 방 60 → 90·40 → 60(몹마다 나눠 받는 몫이 그만큼 커짐).
 - 적 등장 거리: 플레이어에게서 최소 8칸 → 5칸(좁아진 맵에서도 등장할 자리가 남도록).
